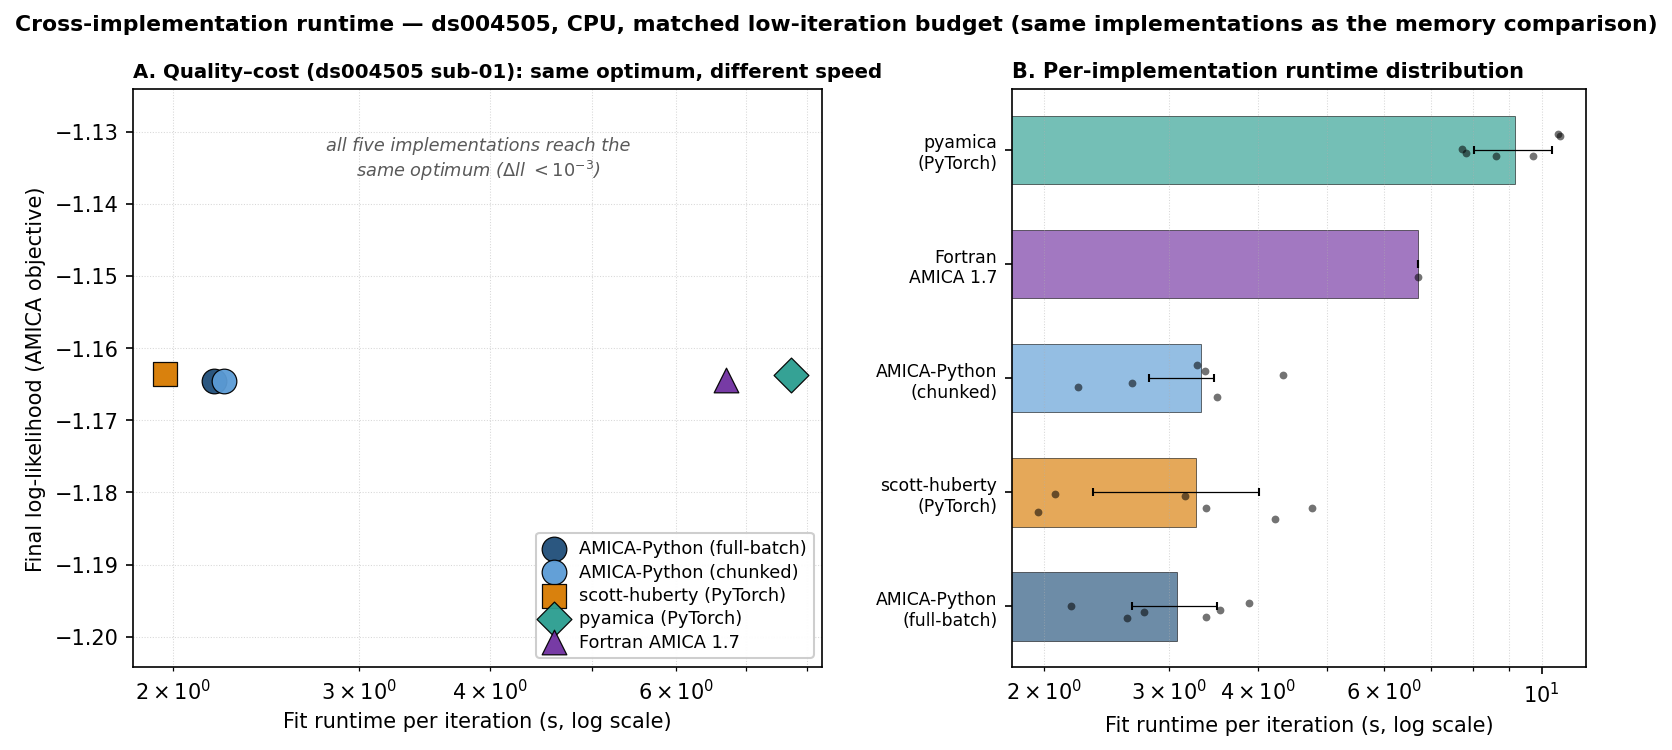
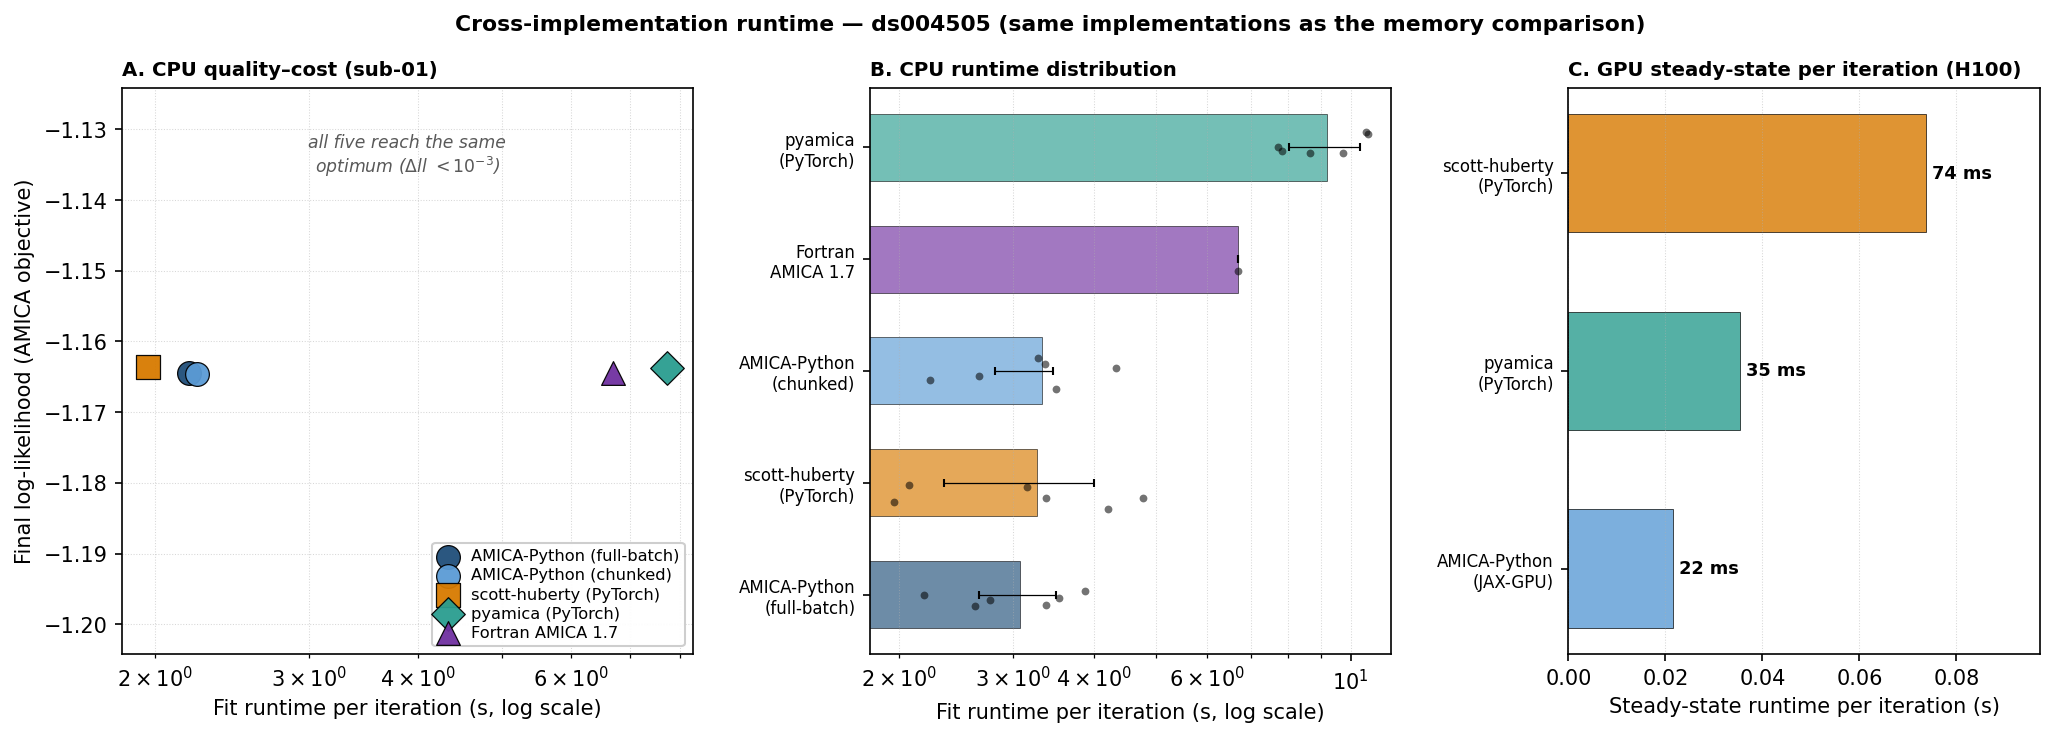
benchmark: add GPU panel to the cross-implementation runtime figure (2-point steady-state)
fig_impl_runtime now 3 panels: A = CPU quality-cost (sub-01, same optimum), B = CPU per-iteration
runtime distribution, C = GPU steady-state per iteration (H100). GPU 2-point (job 44724229):
amica-python 0.022 s/iter (XLA-cached 600-iter run = JIT-free) < pyamica 0.035 < scott 0.074 --
amica-python is fastest on GPU at steady state (a raw 100-iter GPU fit is ~90% JIT compile for JAX
and hides this). +impl_runtime_gpu.csv (t100/t600/steady per impl).

diff --git a/scripts/comparator/mem_compare/plot_impl_runtime.py b/scripts/comparator/mem_compare/plot_impl_runtime.py
@@ -1,22 +1,26 @@
 """Cross-implementation runtime/speed figure (companion to fig_mem_comparison.pdf).
 
-Same five AMICA implementations as the memory comparison -- amica-python (JAX, full-batch + chunked),
-scott-huberty (PyTorch), pyamica (PyTorch), Fortran AMICA 1.7 -- on ds004505, CPU, at a matched low
-iteration budget (100 iter sub-01 / 60 iter sub-02..06). Two panels, mirroring the method-comparison
-fig_quality_cost but for IMPLEMENTATIONS:
+Same AMICA implementations as the memory comparison -- amica-python (JAX, full-batch + chunked),
+scott-huberty (PyTorch), pyamica (PyTorch), Fortran AMICA 1.7 -- on ds004505. Runtime/speed instead
+of memory. Three panels:
 
-  Panel A: final log-likelihood (the AMICA objective; ~identical across implementations -> they reach
-           the same optimum) vs per-iteration fit runtime (log x).
-  Panel B: per-implementation per-iteration runtime distribution (median + IQR, per-subject dots).
+  Panel A (CPU): final log-likelihood (the AMICA objective; ~identical across implementations -> same
+                 optimum) vs per-iteration fit runtime, on the reference subject sub-01. ll is a
+                 per-sample likelihood, comparable only WITHIN a subject, hence sub-01 only.
+  Panel B (CPU): per-implementation per-iteration runtime distribution across subjects (median + IQR,
+                 per-subject dots). Runtime is per ITERATION (fit_time_s / n_iter) so the 100-iter
+                 (sub-01) and 60-iter (sub-02..06) runs are comparable.
+  Panel C (GPU): steady-state per-iteration runtime on one H100, for the 3 implementations with a GPU
+                 path. The fixed one-time cost is removed: the PyTorch implementations via the 2-point
+                 method (T_600 - T_100)/500; amica-python's 600-iter run reused XLA's compilation
+                 cache (no recompile) so its T_600/600 is already JIT-free steady state. A RAW 100-iter
+                 GPU fit is ~90% JIT compile for JAX and would badly understate it.
 
-Runtime is reported PER ITERATION (fit_time_s / n_iter) so the 100-iter and 60-iter runs are
-comparable. GPU is intentionally excluded: the 100-iter GPU fit time is dominated by JAX's one-time
-JIT compile, which would misrepresent steady-state per-iteration speed (see PROVENANCE.md).
-
-With --json-root PATH (the workspace results dir holding mem_compare/ + mem_multisubj/) this rebuilds
-impl_runtime_table.csv from the result JSONs; otherwise it plots the committed CSV.
+With --json-root PATH (the workspace results dir holding mem_compare/, mem_multisubj/, rt_gpu_100/,
+rt_gpu_600/) this rebuilds impl_runtime_table.csv + impl_runtime_gpu.csv; otherwise it plots the
+committed CSVs.
 Run: python plot_impl_runtime.py --json-root D:/amica-validation-workspace/results
-     python plot_impl_runtime.py            # from committed CSV
+     python plot_impl_runtime.py            # from committed CSVs
 """
 import csv
 import glob
@@ -32,7 +36,6 @@ import numpy as np
 HERE = Path(__file__).resolve().parent
 ROOT = Path(sys.argv[sys.argv.index("--json-root") + 1]) if "--json-root" in sys.argv else None
 
-# Implementation labels/colours -- shared with the sibling memory figure (plot_mem_comparison.py).
 LBL_STACK = {
     "amica_python_jax": "AMICA-Python\n(full-batch)",
     "amica_python_jax_chunked": "AMICA-Python\n(chunked)",
@@ -45,8 +48,11 @@ COL = {
     "amica_python_jax": "#1F4E79", "amica_python_jax_chunked": "#5B9BD5",
     "scott_huberty_torch": "#D77A00", "pyamica_torch": "#2A9D8F", "fortran_amica17": "#7030A0",
 }
+MARK = {"amica_python_jax": "o", "amica_python_jax_chunked": "o", "scott_huberty_torch": "s",
+        "pyamica_torch": "D", "fortran_amica17": "^"}
 ORDER = ["amica_python_jax", "amica_python_jax_chunked", "scott_huberty_torch",
          "pyamica_torch", "fortran_amica17"]
+GPU_ORDER = ["amica_python_jax_chunked", "scott_huberty_torch", "pyamica_torch"]
 
 
 def _build(root):
@@ -66,67 +72,82 @@ def _build(root):
         w = csv.DictWriter(f, fieldnames=["subject", "implementation", "ll_final",
                                           "fit_time_s", "n_iter", "s_per_iter"])
         w.writeheader(); w.writerows(rows)
-    return rows
+    # GPU 2-point
+    t = {100: {}, 600: {}}
+    for it in (100, 600):
+        for jf in glob.glob(str(root / f"rt_gpu_{it}" / "*_result.json")):
+            a = json.load(open(jf))
+            if a.get("implementation") in GPU_ORDER and a.get("fit_time_s"):
+                t[it][a["implementation"]] = a["fit_time_s"]
+    grows = []
+    for im in GPU_ORDER:
+        if im in t[100] and im in t[600]:
+            two_pt = (t[600][im] - t[100][im]) / 500.0
+            spi = two_pt if two_pt > 0 else t[600][im] / 600.0  # else: JAX XLA-cached 600-iter
+            grows.append(dict(implementation=im, t100_s=t[100][im], t600_s=t[600][im],
+                              gpu_s_per_iter=spi, method="2point" if two_pt > 0 else "cached600"))
+    with (HERE / "impl_runtime_gpu.csv").open("w", newline="\n", encoding="utf-8") as f:
+        w = csv.DictWriter(f, fieldnames=["implementation", "t100_s", "t600_s",
+                                          "gpu_s_per_iter", "method"])
+        w.writeheader(); w.writerows(grows)
+    return rows, grows
 
 
-def _load_csv():
+def _load():
     rows = list(csv.DictReader((HERE / "impl_runtime_table.csv").open(encoding="utf-8")))
     for r in rows:
         for k in ("ll_final", "fit_time_s", "s_per_iter"):
             r[k] = float(r[k])
         r["n_iter"] = int(r["n_iter"])
-    return rows
+    grows = list(csv.DictReader((HERE / "impl_runtime_gpu.csv").open(encoding="utf-8")))
+    for r in grows:
+        for k in ("t100_s", "t600_s", "gpu_s_per_iter"):
+            r[k] = float(r[k])
+    return rows, grows
 
 
-rows = _build(ROOT) if ROOT else _load_csv()
+rows, grows = _build(ROOT) if ROOT else _load()
+gpu = {r["implementation"]: r for r in grows}
 
-# per-implementation summary
 impls = [m for m in ORDER if any(r["implementation"] == m for r in rows)]
 summ = {}
 for m in impls:
     spi = np.array([r["s_per_iter"] for r in rows if r["implementation"] == m])
-    ll = np.array([r["ll_final"] for r in rows if r["implementation"] == m])
-    summ[m] = dict(med=np.median(spi), q1=np.percentile(spi, 25), q3=np.percentile(spi, 75),
-                   ll=float(np.median(ll)), n=len(spi), spi=spi)
+    summ[m] = dict(med=float(np.median(spi)), q1=float(np.percentile(spi, 25)),
+                   q3=float(np.percentile(spi, 75)), n=len(spi), spi=spi)
 
-fig = plt.figure(figsize=(12.5, 5.0))
-gs = fig.add_gridspec(1, 2, width_ratios=[1.2, 1.0], wspace=0.30)
+fig = plt.figure(figsize=(16.5, 4.9))
+gs = fig.add_gridspec(1, 3, width_ratios=[1.15, 1.05, 0.95], wspace=0.34)
 
-# --- Panel A: log-likelihood vs runtime (reference subject sub-01; ll is only comparable
-#     WITHIN a subject -- it is a per-sample likelihood that varies across recordings) ---
+# --- Panel A: CPU quality-cost (sub-01) ---
 axA = fig.add_subplot(gs[0, 0])
-markers = {"amica_python_jax": "o", "amica_python_jax_chunked": "o",
-           "scott_huberty_torch": "s", "pyamica_torch": "D", "fortran_amica17": "^"}
 sub01 = {r["implementation"]: r for r in rows if r["subject"] == "sub-01"}
 for m in impls:
     if m not in sub01:
         continue
     r = sub01[m]
-    axA.scatter(r["s_per_iter"], r["ll_final"], marker=markers[m], color=COL[m],
-                s=140, edgecolor="black", linewidths=0.6, alpha=0.95, zorder=3,
-                label=LBL_INLINE[m])
+    axA.scatter(r["s_per_iter"], r["ll_final"], marker=MARK[m], color=COL[m], s=130,
+                edgecolor="black", linewidths=0.6, alpha=0.95, zorder=3, label=LBL_INLINE[m])
 ll01 = [sub01[m]["ll_final"] for m in impls if m in sub01]
 rt01 = [sub01[m]["s_per_iter"] for m in impls if m in sub01]
 axA.set_xscale("log")
 axA.set_xlabel("Fit runtime per iteration (s, log scale)")
 axA.set_ylabel("Final log-likelihood (AMICA objective)")
 axA.set_ylim(float(np.mean(ll01)) - 0.04, float(np.mean(ll01)) + 0.04)
-axA.annotate("all five implementations reach the\nsame optimum ($\\Delta$ll $<10^{-3}$)",
-             xy=(0.5, 0.85), xycoords="axes fraction", ha="center", fontsize=8.5,
-             color="0.35", fontstyle="italic")
+axA.annotate("all five reach the same\noptimum ($\\Delta$ll $<10^{-3}$)", xy=(0.5, 0.85),
+             xycoords="axes fraction", ha="center", fontsize=8.3, color="0.35", fontstyle="italic")
 axA.annotate("faster", xy=(min(rt01) * 0.78, np.mean(ll01) - 0.030),
-             xytext=(min(rt01) * 2.2, np.mean(ll01) - 0.030),
-             ha="center", va="center", fontsize=9, color="0.35", fontstyle="italic",
+             xytext=(min(rt01) * 2.2, np.mean(ll01) - 0.030), ha="center", va="center",
+             fontsize=9, color="0.35", fontstyle="italic",
              arrowprops=dict(arrowstyle="->", color="0.55", lw=1.0))
 axA.grid(True, which="both", linestyle=":", linewidth=0.5, alpha=0.5)
-axA.set_title("A. Quality–cost (ds004505 sub-01): same optimum, different speed", loc="left",
-              fontsize=9.5, fontweight="bold")
+axA.set_title("A. CPU quality–cost (sub-01)", loc="left", fontsize=9.5, fontweight="bold")
 axA.legend(loc="lower right", frameon=True, framealpha=0.95, edgecolor="0.8",
-           fontsize=8.5, handlelength=1.2, borderpad=0.4, labelspacing=0.3)
+           fontsize=7.8, handlelength=1.2, borderpad=0.35, labelspacing=0.25)
 
-# --- Panel B: per-implementation runtime distribution ---
+# --- Panel B: CPU runtime distribution ---
 axB = fig.add_subplot(gs[0, 1])
-order_b = sorted(impls, key=lambda m: summ[m]["med"])  # fastest at bottom
+order_b = sorted(impls, key=lambda m: summ[m]["med"])
 for i, m in enumerate(order_b):
     s = summ[m]
     axB.barh(i, s["med"], height=0.6, color=COL[m], edgecolor="black", linewidth=0.4, alpha=0.65,
@@ -137,16 +158,30 @@ for i, m in enumerate(order_b):
                 s=14, c="black", alpha=0.55, linewidths=0, zorder=5)
 axB.set_xscale("log")
 axB.set_yticks(np.arange(len(order_b)))
-axB.set_yticklabels([LBL_STACK[m] for m in order_b], fontsize=8.3)
+axB.set_yticklabels([LBL_STACK[m] for m in order_b], fontsize=8.0)
 axB.set_xlabel("Fit runtime per iteration (s, log scale)")
-axB.set_title("B. Per-implementation runtime distribution", loc="left",
-              fontsize=10, fontweight="bold")
+axB.set_title("B. CPU runtime distribution", loc="left", fontsize=9.5, fontweight="bold")
 axB.grid(axis="x", which="both", linestyle=":", linewidth=0.5, alpha=0.5)
 
-fig.suptitle("Cross-implementation runtime — ds004505, CPU, matched low-iteration budget "
-             "(same implementations as the memory comparison)", fontsize=10.5, fontweight="bold")
+# --- Panel C: GPU steady-state per iteration (H100) ---
+axC = fig.add_subplot(gs[0, 2])
+gorder = sorted([m for m in GPU_ORDER if m in gpu], key=lambda m: gpu[m]["gpu_s_per_iter"])
+for i, m in enumerate(gorder):
+    v = gpu[m]["gpu_s_per_iter"]
+    axC.barh(i, v, height=0.6, color=COL[m], edgecolor="black", linewidth=0.4, alpha=0.8)
+    axC.text(v, i, f" {v * 1000:.0f} ms", va="center", ha="left", fontsize=8.5, fontweight="bold")
+axC.set_yticks(np.arange(len(gorder)))
+axC.set_yticklabels([LBL_STACK[m].replace("(chunked)", "(JAX-GPU)") for m in gorder], fontsize=8.0)
+axC.set_xlabel("Steady-state runtime per iteration (s)")
+axC.set_xlim(0, max(gpu[m]["gpu_s_per_iter"] for m in gorder) * 1.32)
+axC.set_title("C. GPU steady-state per iteration (H100)", loc="left", fontsize=9.5, fontweight="bold")
+axC.grid(axis="x", linestyle=":", linewidth=0.5, alpha=0.5)
+
+fig.suptitle("Cross-implementation runtime — ds004505 (same implementations as the memory comparison)",
+             fontsize=10.5, fontweight="bold")
 fig.tight_layout(rect=[0, 0, 1, 0.95])
 for ext in ("pdf", "png"):
     fig.savefig(HERE / f"fig_impl_runtime.{ext}", dpi=150, bbox_inches="tight")
 print("wrote", HERE / "fig_impl_runtime.pdf")
-print("implementations:", {m: round(summ[m]["med"], 3) for m in impls}, "s/iter (median)")
+print("CPU s/iter (median):", {m: round(summ[m]["med"], 3) for m in impls})
+print("GPU s/iter (steady):", {m: round(gpu[m]["gpu_s_per_iter"], 4) for m in gorder})